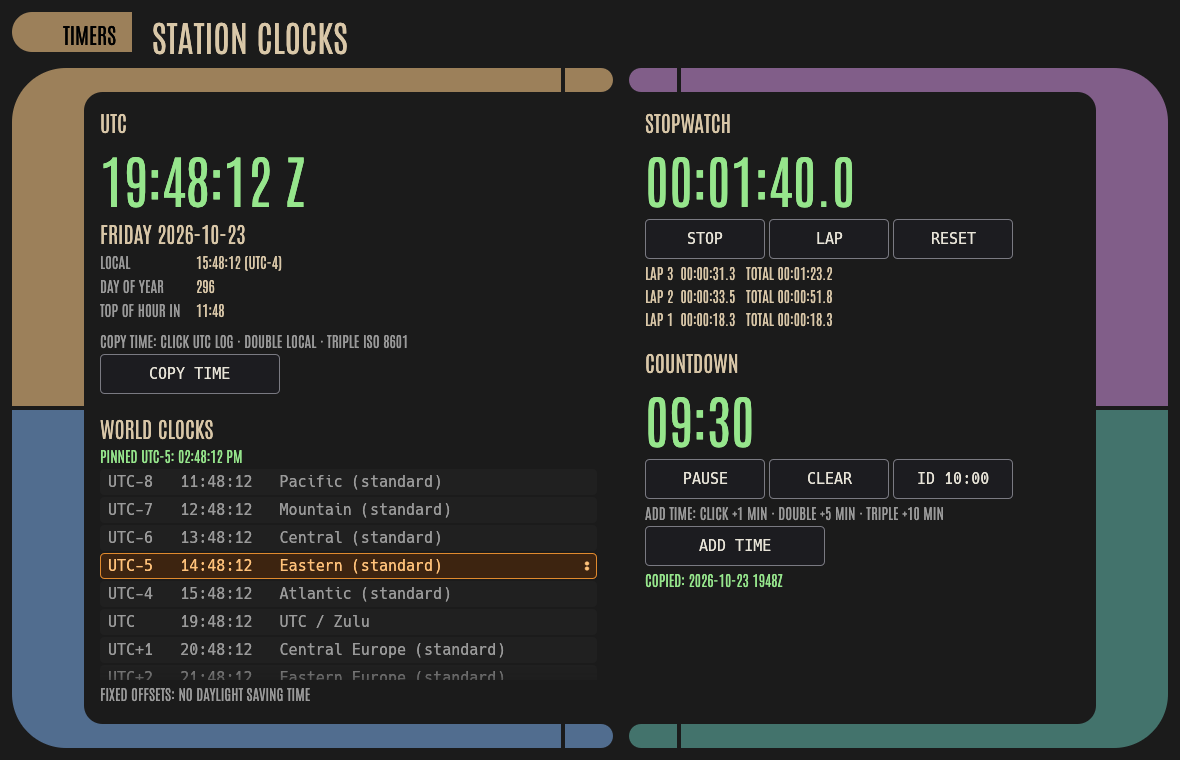
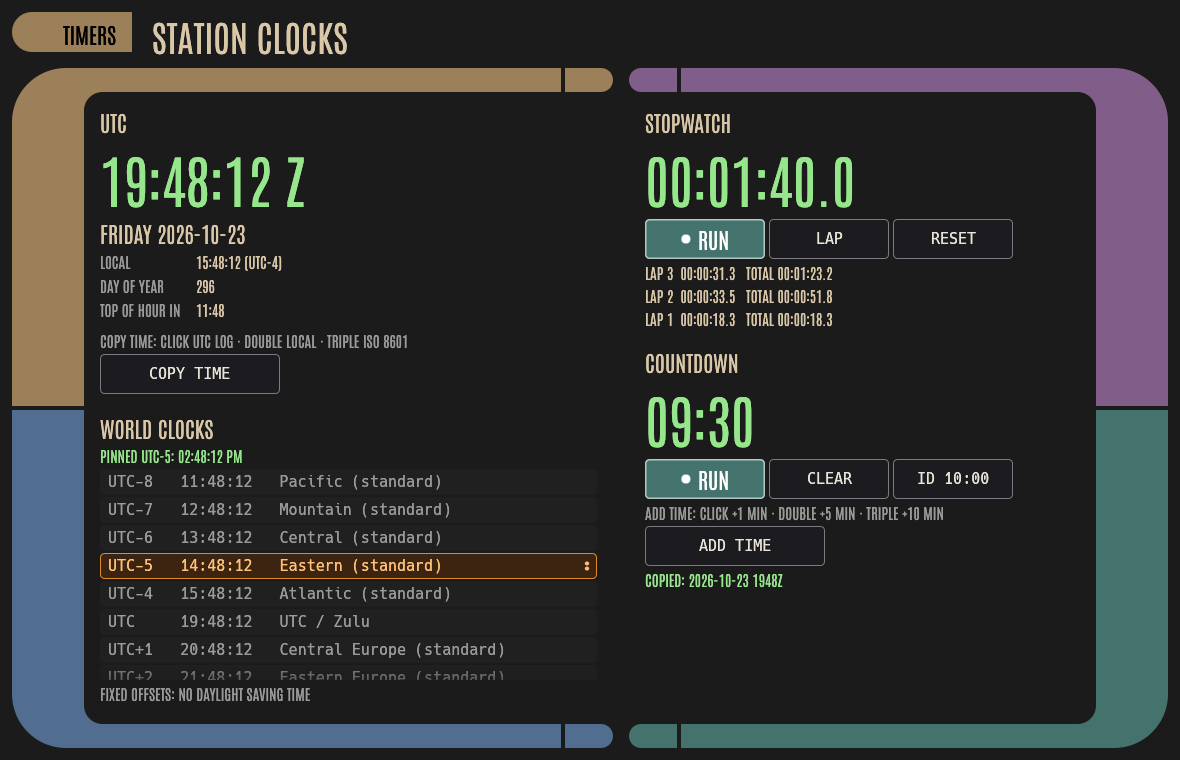
P1b: toggle buttons get a thin border and a painted ●/○ marker (toggle_button)

Changed region(s): [[0.5492, 0.2724, 0.6712, 0.3632], [0.5492, 0.6053, 0.6712, 0.6658]]

diff --git a/src/lib.rs b/src/lib.rs
@@ -803,6 +803,124 @@ pub fn action_button(ui: &mut Ui, t: &LcarsTheme, label: &str, size: Vec2) -> Re
     resp
 }
 
+// ---------------------------------------------------------------- toggles
+/// [PROJECT] P1b border width of a toggle button.
+pub const TOGGLE_BORDER: f32 = 1.5;
+
+/// [PROJECT] P1b state-marker text: `"● LIVE"` when on, `"○ LIVE"` when off, for
+/// AccessKit names, logs and fonts that have ●/○ (e.g. Hack). `toggle_button` paints the
+/// marker instead, because Antonio has no ●/○ glyphs.
+pub fn toggle_label(label: &str, on: bool) -> String {
+    format!("{} {}", if on { '●' } else { '○' }, label.to_uppercase())
+}
+
+/// [PROJECT] P1b paints the ● (on) / ○ (off) marker as a circle followed by the uppercase
+/// label, centred in `rect`. Painted rather than text because Antonio and egui's default
+/// proportional font have no ●/○ glyphs (same reason as the mode pips in P2).
+pub fn paint_toggle_marker_label(
+    p: &egui::Painter,
+    rect: Rect,
+    label: &str,
+    on: bool,
+    font: FontId,
+    color: Color32,
+) {
+    let galley = p.layout_no_wrap(label.to_uppercase(), font, color);
+    let size = galley.size();
+    let r = (size.y * 0.16).max(2.5);
+    let gap = r * 1.6;
+    let w = 2.0 * r + gap + size.x;
+    let x0 = rect.center().x - w / 2.0;
+    let c = pos2(x0 + r, rect.center().y);
+    if on {
+        p.circle_filled(c, r, color);
+    } else {
+        p.circle_stroke(c, r - 0.5, Stroke::new(1.0, color));
+    }
+    p.galley(
+        pos2(x0 + 2.0 * r + gap, rect.center().y - size.y / 2.0),
+        galley,
+        color,
+    );
+}
+
+/// [PROJECT] P1b toggle colours `(fill, border, label)` for a toggle with hue `base`.
+/// On: solid `base` fill, light/dark ink border. Off: dark fill, border in the hue
+/// (brightened until it reaches 3:1 against the fill). Label is the best ink for the fill.
+pub fn toggle_colors(base: Color32, on: bool) -> (Color32, Color32, Color32) {
+    if on {
+        let light = tint(base, 0.6);
+        let border = if contrast(light, base) >= 3.0 {
+            light
+        } else {
+            ink_on(base)
+        };
+        (base, border, ink_on(base))
+    } else {
+        let fill = palette::BG;
+        let mut border = base;
+        let mut k = 0.0;
+        while contrast(border, fill) < 3.0 && k < 1.0 {
+            k += 0.1;
+            border = tint(base, k);
+        }
+        (fill, border, ink_on(fill))
+    }
+}
+
+/// [PROJECT] P1b toggle button: a button that switches a state on and off.
+/// Momentary buttons (`lcars_button`) stay solid and borderless; toggles get a thin
+/// `TOGGLE_BORDER` outline and a ●/○ marker before the label. A click flips `on` and
+/// marks the response changed. Fires immediately (no click modes).
+pub fn toggle_button(
+    ui: &mut Ui,
+    t: &LcarsTheme,
+    label: &str,
+    on: &mut bool,
+    base: Color32,
+    size: Vec2,
+) -> Response {
+    let (rect, mut resp) = ui.allocate_exact_size(size, Sense::click());
+    if resp.clicked() {
+        *on = !*on;
+        resp.mark_changed();
+    }
+    let (fill, border, ink) = toggle_colors(base, *on);
+    let fill = if resp.hovered() {
+        tint(fill, 0.08)
+    } else {
+        fill
+    };
+    let r = CornerRadius::same(4);
+    let p = ui.painter();
+    p.rect_filled(rect, r, fill);
+    p.rect_stroke(
+        rect,
+        r,
+        Stroke::new(TOGGLE_BORDER, border),
+        egui::StrokeKind::Inside,
+    );
+    paint_toggle_marker_label(
+        p,
+        rect,
+        label,
+        *on,
+        FontId::proportional(t.header_size),
+        ink,
+    );
+    if resp.has_focus() {
+        p.rect_stroke(
+            rect.expand(2.0),
+            CornerRadius::same(5),
+            Stroke::new(1.0, t.text),
+            egui::StrokeKind::Outside,
+        );
+    }
+    let (enabled, l, state) = (ui.is_enabled(), toggle_label(label, *on), *on);
+    resp.widget_info(|| egui::WidgetInfo::selected(egui::Role::CheckBox, enabled, state, &l));
+    resp
+}
+
 /// [PROJECT] mode button (IMG1 style). Returns the response; `mode` is updated in place.
 pub fn mode_button(
     ui: &mut Ui,

diff --git a/tests/toggle.rs b/tests/toggle.rs
@@ -1,0 +1,80 @@
+//! [PROJECT] P1b toggle buttons: thin border, ●/○ marker, contrast, headless click.
+use egui::{Color32, vec2};
+use rustcars::*;
+use std::sync::mpsc;
+use std::time::Duration;
+
+const HUES: [Color32; 8] = [
+    Color32::from_rgb(0x9C, 0x80, 0x5A),
+    Color32::from_rgb(0x51, 0x6D, 0x8F),
+    Color32::from_rgb(0x56, 0x60, 0x3A),
+    Color32::from_rgb(0x70, 0x46, 0x3E),
+    Color32::from_rgb(0x34, 0x5A, 0x54),
+    Color32::from_rgb(0x60, 0x46, 0x66),
+    Color32::from_rgb(0xA0, 0x5A, 0x50),
+    Color32::from_rgb(0xD9, 0x42, 0x3A),
+];
+
+#[test]
+fn marker_text() {
+    assert_eq!(toggle_label("live", true), "● LIVE");
+    assert_eq!(toggle_label("Data", false), "○ DATA");
+}
+
+#[test]
+fn border_is_thin() {
+    const { assert!(TOGGLE_BORDER > 1.0 && TOGGLE_BORDER <= 2.0) };
+}
+
+#[test]
+fn toggle_contrast() {
+    for h in HUES {
+        for on in [true, false] {
+            let (fill, border, ink) = toggle_colors(h, on);
+            assert!(contrast(border, fill) >= 3.0, "{h:?} on={on} border");
+            assert!(contrast(ink, fill) >= 4.5, "{h:?} on={on} label");
+        }
+    }
+}
+
+#[test]
+fn headless_click_flips() {
+    let (tx, rx) = mpsc::channel();
+    std::thread::spawn(move || {
+        let ctx = egui::Context::default();
+        let t = LcarsTheme::default();
+        let mut on = false;
+        let run = |ctx: &egui::Context, on: &mut bool, input: egui::RawInput| {
+            let mut changed = false;
+            let mut out = ctx.run_ui(input, |ui| {
+                ui.set_min_size(vec2(200.0, 60.0));
+                changed |= toggle_button(ui, &t, "Live", on, HUES[6], vec2(80.0, 30.0)).changed();
+            });
+            out.textures_delta.clear();
+            changed
+        };
+        run(&ctx, &mut on, egui::RawInput::default());
+        let p = egui::pos2(40.0, 15.0);
+        let ev = |pressed| egui::Event::PointerButton {
+            pos: p,
+            button: egui::PointerButton::Primary,
+            pressed,
+            modifiers: Default::default(),
+        };
+        let mk = |e: Vec<egui::Event>| egui::RawInput {
+            events: e,
+            ..Default::default()
+        };
+        run(
+            &ctx,
+            &mut on,
+            mk(vec![egui::Event::PointerMoved(p), ev(true)]),
+        );
+        let changed = run(&ctx, &mut on, mk(vec![ev(false)]));
+        tx.send((on, changed)).unwrap();
+    });
+    let (on, changed) = rx
+        .recv_timeout(Duration::from_secs(10))
+        .expect("frame run timed out");
+    assert!(on && changed);
+}

diff --git a/examples/timers/main.rs b/examples/timers/main.rs
@@ -17,7 +17,7 @@ use chrono::{DateTime, FixedOffset, Local, Offset, Utc};
 use clock::{ClockFmt, Countdown, Stamp, Stopwatch, ZONES};
 use rustcars::{
     Cap, LcarsFrame, LcarsTheme, Mode, Side, action_button, apply_theme, install_lcars_font,
-    lcars_button, mode_button, mode_list, palette, readout,
+    lcars_button, mode_button, mode_list, palette, readout, toggle_button,
 };
 
 pub struct Timers {
@@ -249,8 +249,8 @@ impl Timers {
                 .color(if self.sw.running() { t.text_hi } else { t.text }),
         );
         ui.horizontal(|ui| {
-            let label = if self.sw.running() { "Stop" } else { "Start" };
-            if action_button(ui, &t, label, b).clicked() {
+            let mut run = self.sw.running();
+            if toggle_button(ui, &t, "Run", &mut run, rustcars::palette::TEAL, b).changed() {
                 self.sw.toggle(now);
             }
             if action_button(ui, &t, "Lap", b).clicked() && self.sw.lap(now).is_none() {
@@ -305,8 +305,8 @@ impl Timers {
                 .color(color),
         );
         ui.horizontal(|ui| {
-            let label = if self.cd.running() { "Pause" } else { "Start" };
-            if action_button(ui, &t, label, b).clicked() {
+            let mut run = self.cd.running();
+            if toggle_button(ui, &t, "Run", &mut run, rustcars::palette::TEAL, b).changed() {
                 self.cd.toggle(now);
             }
             if action_button(ui, &t, "Clear", b).clicked() {

diff --git a/examples/smith/math.rs b/examples/smith/math.rs
@@ -158,7 +158,7 @@ pub struct StubMatch {
 pub fn stub_match(zl_norm: Cx, kind: Stub) -> Option<StubMatch> {
     let g0 = gamma(zl_norm);
     let m = g0.abs();
-    if m < 1e-6 || m > 1.0 - 1e-9 {
+    if !(1e-6..=1.0 - 1e-9).contains(&m) {
         return None;
     }
     let g_re = |d: f64| z_of(toward_generator(g0, d)).inv().re - 1.0;

diff --git a/AGENTS.md b/AGENTS.md
@@ -30,6 +30,14 @@ Reference screenshots: IMG1 buttons (LOAD/SAVE/SCAN/DWELL), IMG2 tab palette (Tu
 - Implementation: `mode_button()`.
 - This replaces the pill-button guidance in §3 for function buttons. The LCARS frame segments and the header tab strip keep the solid muted IMG2 tab style (`lcars_button`), because they are frame chrome and navigation, not multi-mode functions.
 
+### P1b. Toggle buttons
+- A button that **switches a state on and off** (Live, Data, Follow, Mute, Run…) is a toggle. Toggles get a **thin border** (`TOGGLE_BORDER` = 1.5 px, `StrokeKind::Inside`) so they read differently from momentary buttons.
+- **Momentary buttons** (◄ DAY, TODAY, −, +, FIT…) do something once and keep no state. They stay **solid filled with no outline**.
+- **On:** solid fill in the toggle's hue, border a light tint of the hue (or the ink colour if the tint is under 3:1). **Off:** dark page fill (`#1B1B1B`), border in the hue, brightened until it reaches 3:1 against the fill.
+- **State in text:** the label starts with **● when on and ○ when off** (or reads ON/OFF). Never show the state by colour or border alone. The marker is painted (`paint_toggle_marker_label`), because Antonio has no ●/○ glyphs.
+- Implementation: `toggle_button()`, `toggle_colors()`, `paint_toggle_marker_label()`, `toggle_label()`. Checked by `tests/toggle.rs`.
+- A toggle with click modes stays a `mode_button`; this rule covers plain on/off buttons.
+
 ### P2. Click-count modes
 - One control, one function, up to three operating modes:
 
@@ -1456,6 +1464,7 @@ Notes:
 ## 10. Agent checklist (Grok Build)
 **Do**
 - [ ] [PROJECT] Build function buttons and list rows with `mode_button`/`mode_list`: IMG1 style, gray/green/orange/purple modes, never a 4th mode, painted mode pips plus AccessKit mode names, keyboard and context-menu access.
+- [ ] [PROJECT] Draw on/off buttons with `toggle_button` (thin border, ●/○ marker). Momentary buttons stay solid and borderless.
 - [ ] [PROJECT] Take colors from `palette::*` and `Mode::colors()`, and keep `tests/modes.rs` passing whenever you change a color.
 - [ ] Use one `LcarsTheme` as the source of all colors, sizes and gaps. No inline literals.
 - [ ] Vary thickness at every elbow, and draw elbows from primitives proportional to thickness.

diff --git a/docs/manual/04-controls.md b/docs/manual/04-controls.md
@@ -25,6 +25,16 @@ How a click sequence is resolved (`handle_mode`):
 - **Single-meaning functions:** use `lcars_button` (no modes) or ignore `Alt1`/`Alt2`. Never invent alternates just to fill the slots, and never give the alternates unrelated meanings.
 - **Destructive actions:** never put one on a double or triple click, because accidental multi-clicks happen.
 
+### Toggle buttons
+
+`toggle_button(ui, &t, label, &mut on, hue, size)` draws an on/off button. A click flips `on` and the response reports `changed()`.
+
+- **Toggles have a thin border, momentary buttons don't.** A toggle (Live, Data, Run) has a 1.5 px outline. A momentary button (Today, Fit, +) is a solid filled rectangle with no outline. The border tells you at a glance which buttons hold a state.
+- **On:** filled in the hue with a light border. **Off:** dark fill with a border in the hue. Borders reach at least 3:1 against the fill, labels at least 4.5:1.
+- **State is written, not just coloured.** The label starts with ● when on and ○ when off, e.g. `● LIVE`, `○ DATA`. The marker is painted as a circle because the LCARS font has no ●/○ characters. `paint_toggle_marker_label` draws it for custom widgets, and `toggle_label(label, on)` gives the text form for screen readers and logs.
+- Screen readers announce it as a checkbox with its on/off state.
+- The stopwatch and countdown **Run** buttons in `examples/timers` are toggles.
+
 ## 4.2 Lists
 
 `mode_list(ui, &t, id_salt, &mut rows, row_h)` takes a `&mut [(String, Mode)]`. Each row behaves exactly like a mode button:

diff --git a/README.md b/README.md
@@ -8,7 +8,7 @@ LCARS-style UI widgets and a demo for [egui](https://github.com/emilk/egui) 0.37
 - a theme limited to the three font sizes and two spacing values the guideline calls for
 - the Antonio font, bundled
 
-Function buttons and list rows use click-count modes: click selects (green), double-click picks alternate 1 (orange), triple-click picks alternate 2 (purple). Each active mode also shows painted dots on the right of the control: · for 1, ∶ for 2, ⁖ for 3. Screen readers announce the mode name (e.g. "Scan, mode Alt 1"). The controls are drawn in a muted LCARS palette that meets WCAG 2.2 AA (see `AGENTS.md` §0).
+Function buttons and list rows use click-count modes: click selects (green), double-click picks alternate 1 (orange), triple-click picks alternate 2 (purple). Each active mode also shows painted dots on the right of the control: · for 1, ∶ for 2, ⁖ for 3. Screen readers announce the mode name (e.g. "Scan, mode Alt 1"). On/off buttons (`toggle_button`) have a thin border and a ●/○ marker in the label; momentary buttons are solid with no outline. The controls are drawn in a muted LCARS palette that meets WCAG 2.2 AA (see `AGENTS.md` §0).
 
 The repo also contains [`AGENTS.md`](AGENTS.md), a set of design and implementation rules for coding agents building LCARS UIs with egui.
 
